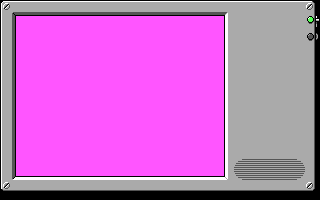
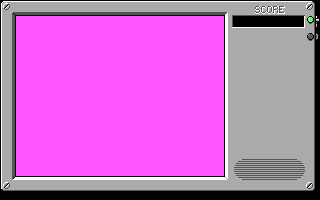
Added font and score. Adjusted pickup detection.

Changed region(s): [[0.7188, 0.03, 0.9688, 0.15]]

diff --git a/tt_main.c b/tt_main.c
@@ -234,6 +234,7 @@ int init_game()
 
    view_port = al_create_bitmap(VIEWPORT_WIDTH, VIEWPORT_HEIGHT);
 
+   //Load sounds
    al_reserve_samples(1);
    snd_pickup = al_load_sample("data/sound/pickup.ogg");
    snd_fall = al_load_sample("data/sound/fall.ogg");
@@ -245,6 +246,9 @@ int init_game()
 
    //Create the game bitmap that needs to be stretched to display
    game = al_create_bitmap(320, 200);
+
+   //Load font
+   font = al_load_bitmap_font("data/fonts/font.png");
 
    al_register_event_source(event_queue, al_get_display_event_source(display));
    al_register_event_source(event_queue, al_get_timer_event_source(FPS_TIMER));
@@ -285,6 +289,7 @@ void update_screen()
    //Draw view_port to game, then draw game scaled to display.
    al_set_target_bitmap(game);
    al_draw_bitmap(view_port, VIEWPORT_X, VIEWPORT_Y, 0);
+   al_draw_textf(font, al_map_rgb(255,255,255), 303, 18, ALLEGRO_ALIGN_RIGHT, "%010d", player.score);
    al_set_target_backbuffer(display);
    al_draw_scaled_bitmap(game,
                          0,0,
@@ -646,7 +651,7 @@ void update_player()
 
    /* Check for items
    Here we check if the player is over an item */
-   tx = player.x + (player.direction ? 14 : 19);
+   tx = player.x + (player.direction ? 14 : 18);
    /* There are three of each of these so I can check
       Tally's head, feet, and middle. */
    ty = (player.y + 1);
@@ -721,9 +726,14 @@ void check_timer_logic(ALLEGRO_EVENT *ev)
    //Animation
    if (ev->timer.source == ANIM_TIMER)
    {
+      //This is so we can have some half-time animations.
       frame_skip++;
       if (frame_skip == 2) frame_skip = 0;
+
+      //Animate the player
       animate_player(&player);
+
+      //Toggle the item frame (there's only two)
       if (frame_skip == 0) item_frame ^= 1;
    }
    //Frames
